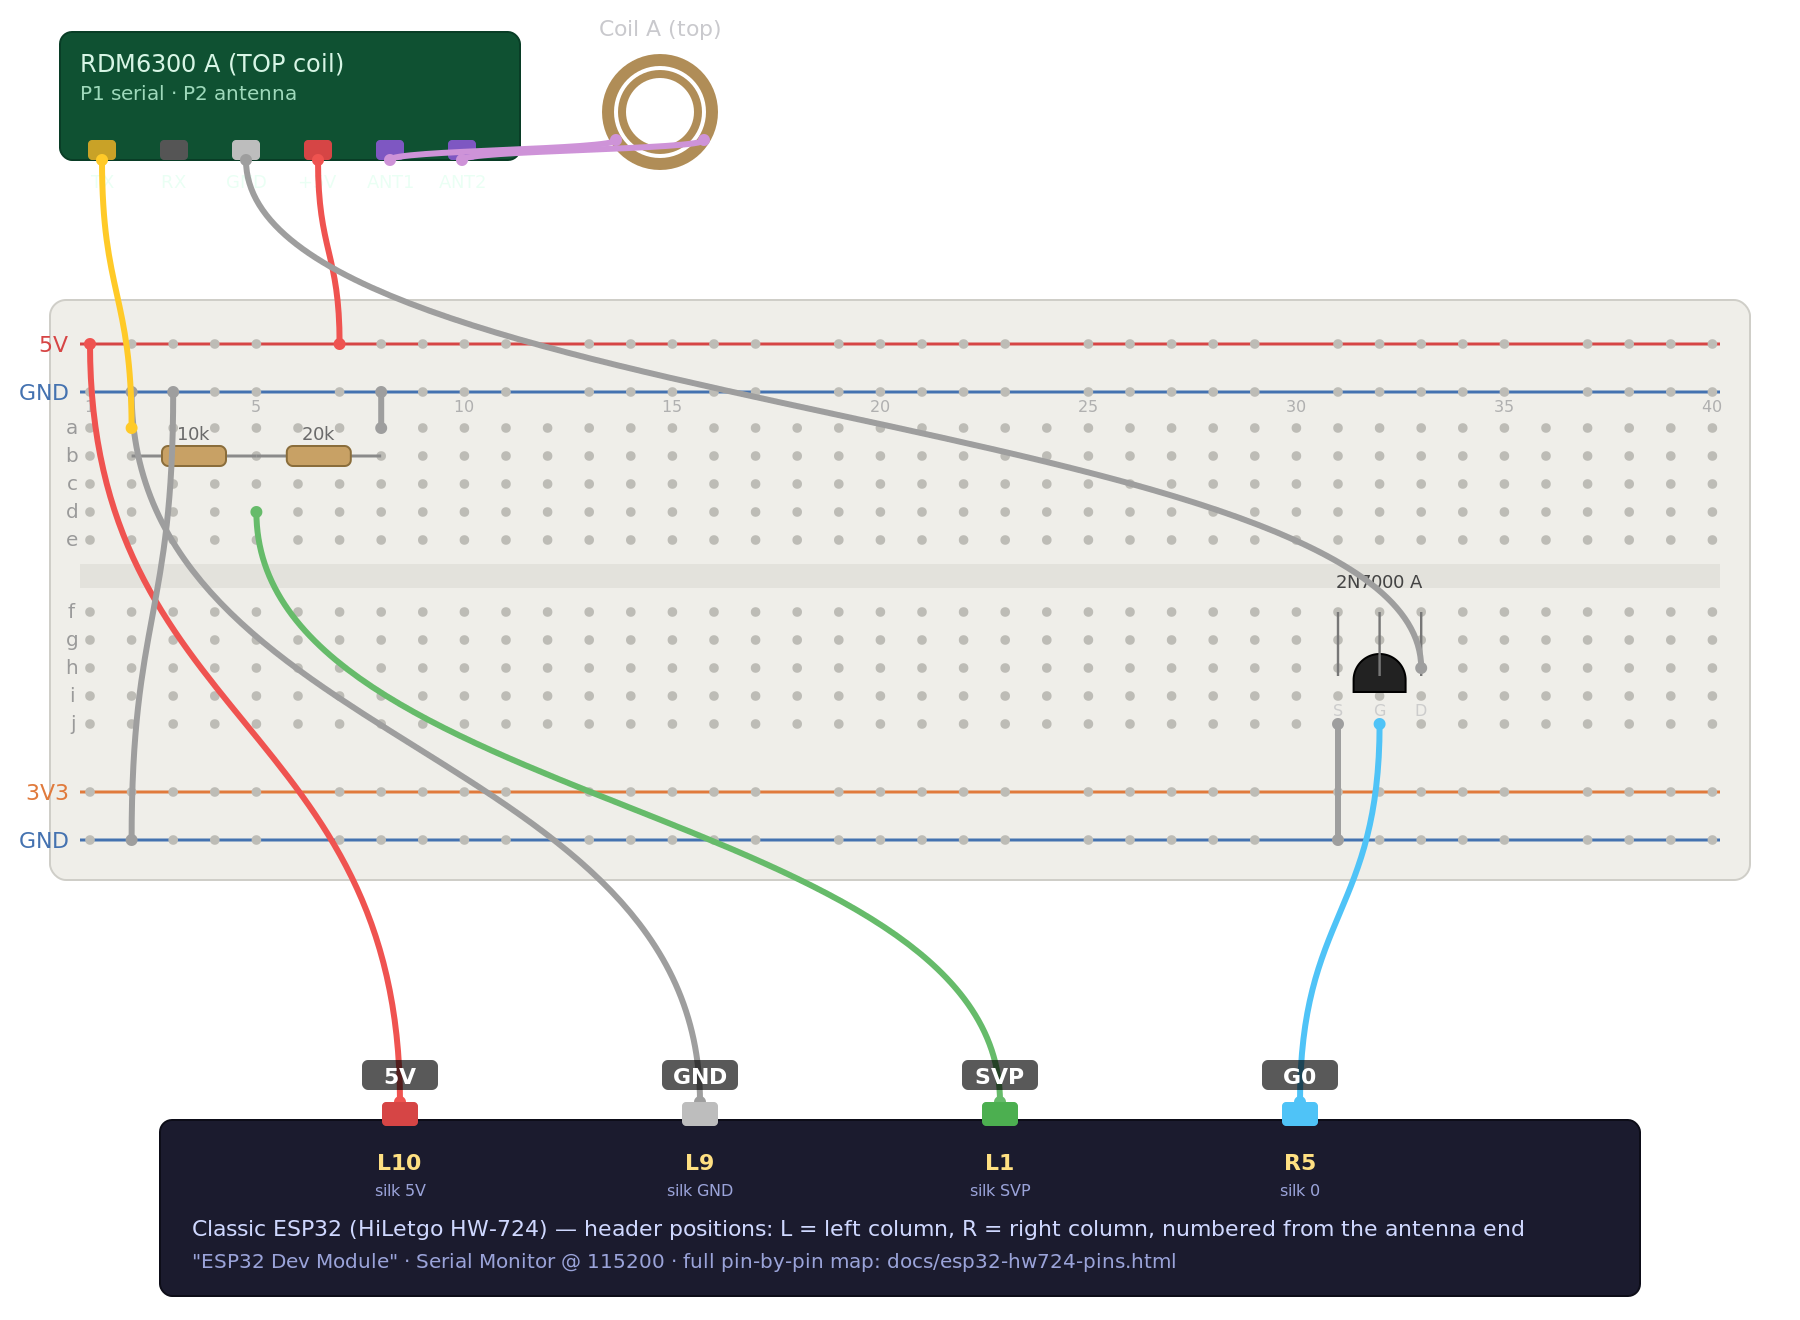
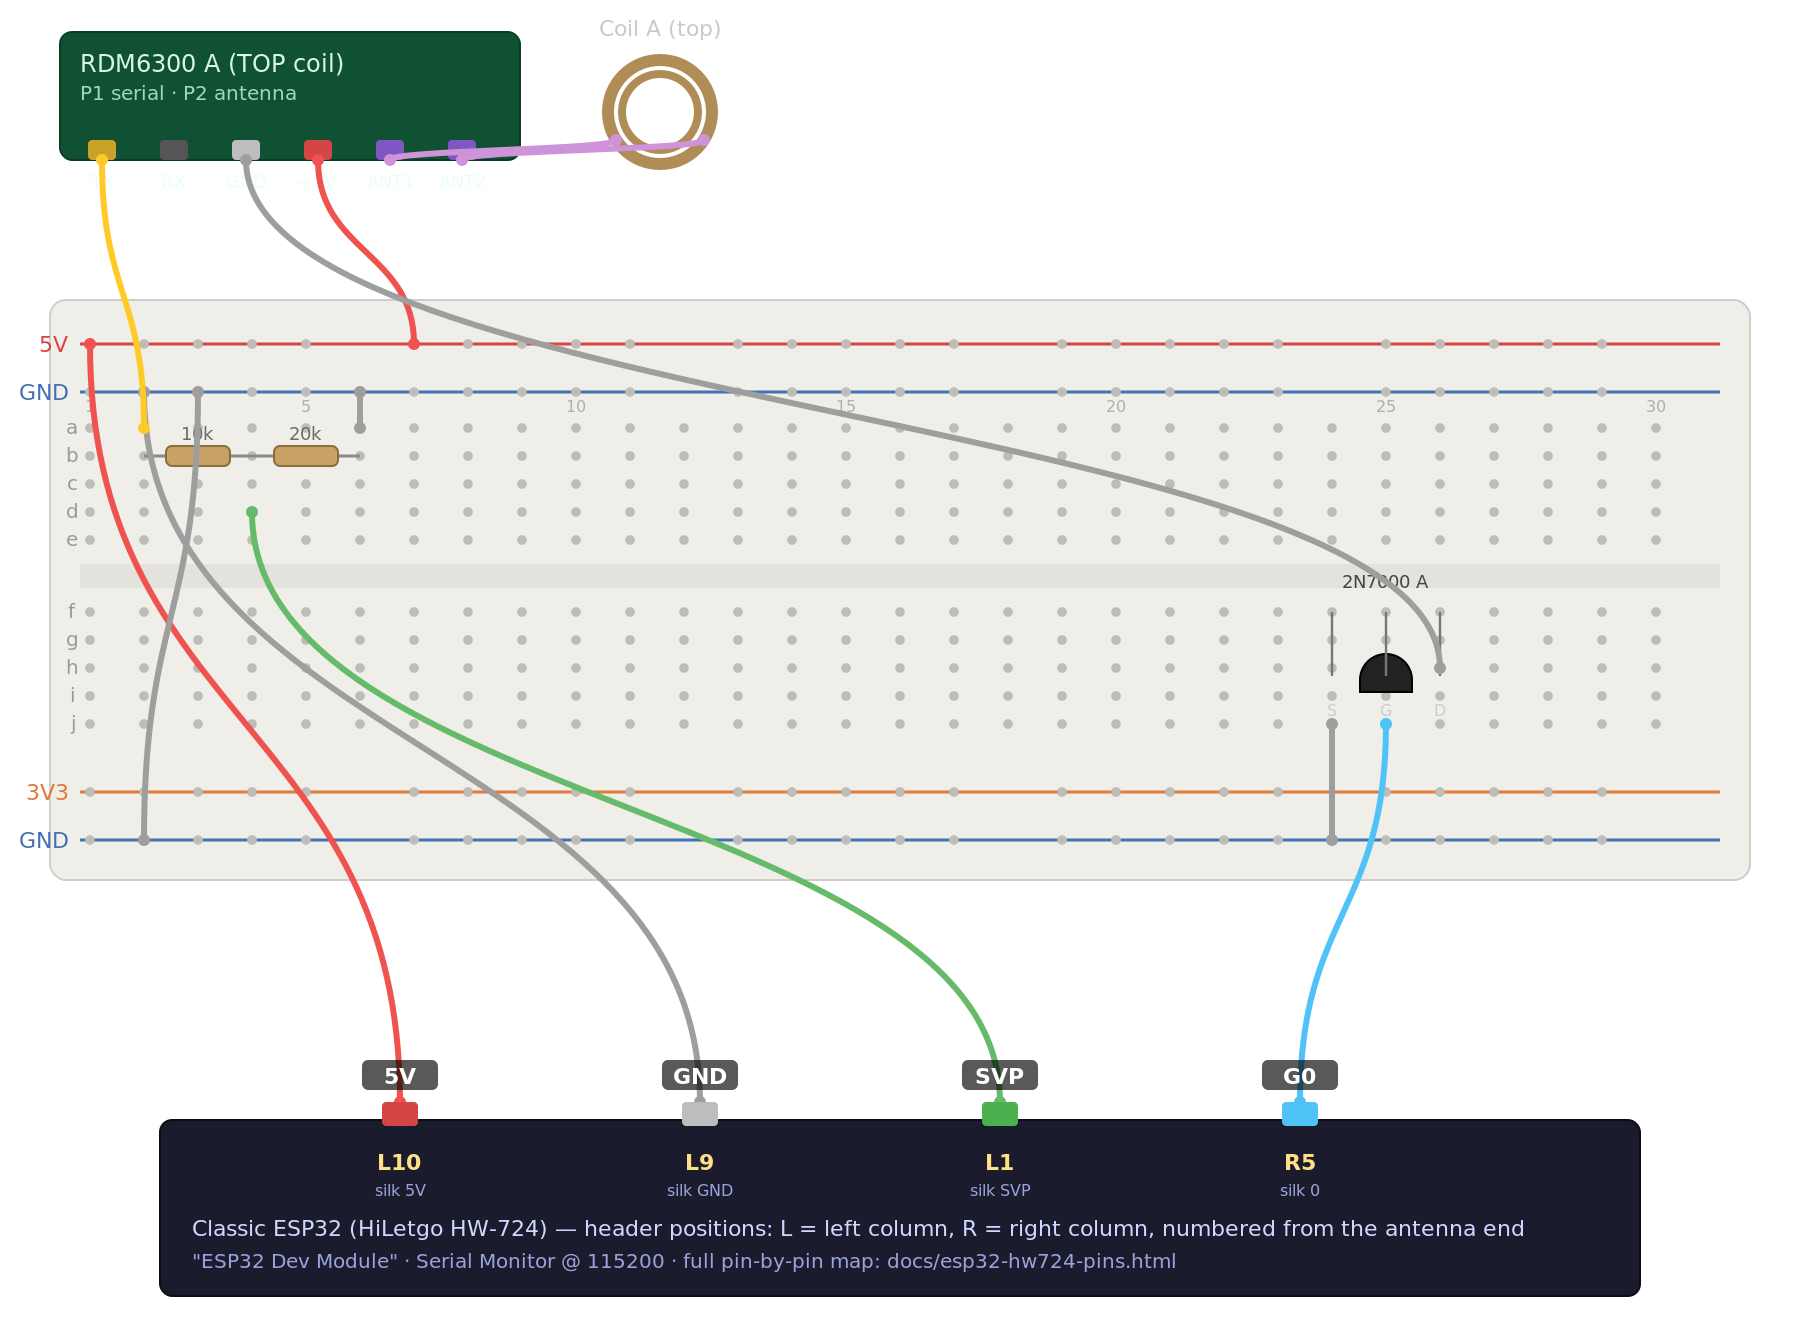
BOM with affiliate links; breadboard maps re-laid to the 400-point (30-column) board; LED + breadboard ASINs

diff --git a/docs/breadboard-step3.html b/docs/breadboard-step3.html
@@ -49,7 +49,7 @@ Wire colors: <span style="color:#ef5350">red = +5V</span>, <span style="color:#f
 var NS='http://www.w3.org/2000/svg';
 function el(t,a,parent){var e=document.createElementNS(NS,t);for(var k in a)e.setAttribute(k,a[k]);(parent||document.getElementById('bb')).appendChild(e);return e;}
 function txt(x,y,s,a,parent){var e=el('text',Object.assign({x:x,y:y},a),parent);e.textContent=s;return e;}
-var NCOL=40; function cx(c){return 45+(c-1)*20.8;}            // column 1..40
+var NCOL=30; function cx(c){return 45+(c-1)*27;}              // column 1..30 (400-point board)
 var rowY={a:214,b:228,c:242,d:256,e:270,f:306,g:320,h:334,i:348,j:362};
 var railY={'5V':172,'GNDT':196,'3V3':396,'GNDB':420};
 var holes=document.getElementById('holes');
@@ -116,11 +116,11 @@ function fet(c,label){var x=cx(c+1),y=rowY.f+26;
   ['S','G','D'].forEach(function(n,i){el('line',{x1:cx(c+i),y1:rowY.f,x2:cx(c+i),y2:y+6,stroke:'#777','stroke-width':1.2},parts);
     txt(cx(c+i),y+26,n,{fill:'#ccc','font-size':8,'text-anchor':'middle'},parts);});
   txt(x,rowY.f-12,label,{fill:'#444','font-size':9,'text-anchor':'middle','font-weight':500},parts);}
-resistorH(2,5,'b','10k'); resistorH(5,8,'b','20k');          // divider A
-resistorH(10,13,'b','10k'); resistorH(13,16,'b','20k');      // divider B
-led(19,'LED TOP'); resistorV(19,'220',true); resistorV(21,'47',true); resistorV(22,'47');
-led(25,'LED BOT'); resistorV(25,'220',true); resistorV(27,'47',true); resistorV(28,'47');
-fet(31,'2N7000 A'); fet(35,'2N7000 B');
+resistorH(2,4,'b','10k'); resistorH(4,6,'b','20k');          // divider A
+resistorH(8,10,'b','10k'); resistorH(10,12,'b','20k');      // divider B
+led(14,'LED TOP'); resistorV(14,'220',true); resistorV(16,'47',true); resistorV(17,'47');
+led(19,'LED BOT'); resistorV(19,'220',true); resistorV(21,'47',true); resistorV(22,'47');
+fet(24,'2N7000 A'); fet(27,'2N7000 B');
 
 // ---- wires: [color, fromPoint, toPoint, fromLabel, toLabel, note] ----
 var W=[
@@ -129,27 +129,27 @@ var W=[
  ['#ff8a65',R('3V3',1),pts['ESP:3V3'],'ESP32 3V3 (L8)','bottom + rail (3V3)','LED anodes ONLY'],
  ['#9e9e9e',R('GNDB',2),R('GNDT',3),'top - rail','bottom - rail','bridge the two GND rails'],
  ['#ef5350',pts['A:+5V'],R('5V',7),'RDM A +5V','top + rail',''],
- ['#ef5350',pts['B:+5V'],R('5V',37),'RDM B +5V','top + rail',''],
+ ['#ef5350',pts['B:+5V'],R('5V',29),'RDM B +5V','top + rail',''],
  ['#ffca28',pts['A:TX'],P(2,'a'),'RDM A TX','col 2 (10k)','divider A in'],
- ['#9e9e9e',P(8,'a'),R('GNDT',8),'col 8 (20k end)','top - rail','divider A to GND'],
- ['#66bb6a',P(5,'d'),pts['ESP:SVP'],'col 5 = tap A (3.33V)','ESP32 SVP (L1)','SVP = GPIO36, input-only, UART2 RX'],
- ['#ffca28',pts['B:TX'],P(10,'a'),'RDM B TX','col 10 (10k)','divider B in'],
- ['#9e9e9e',P(16,'a'),R('GNDT',16),'col 16 (20k end)','top - rail','divider B to GND'],
- ['#66bb6a',P(13,'d'),pts['ESP:SVN'],'col 13 = tap B (3.33V)','ESP32 SVN (R1)','SVN = GPIO39, input-only, UART1 RX'],
- ['#9e9e9e',pts['A:GND'],P(33,'h'),'RDM A GND','col 33 = 2N7000 A DRAIN','NOT the rail'],
- ['#9e9e9e',P(31,'j'),R('GNDB',31),'col 31 = 2N7000 A SOURCE','bottom - rail',''],
- ['#4fc3f7',P(32,'j'),pts['ESP:G0'],'col 32 = 2N7000 A GATE','ESP32 GPIO0 (R5)','reader A enable'],
- ['#9e9e9e',pts['B:GND'],P(37,'h'),'RDM B GND','col 37 = 2N7000 B DRAIN','NOT the rail'],
- ['#9e9e9e',P(35,'j'),R('GNDB',35),'col 35 = 2N7000 B SOURCE','bottom - rail',''],
- ['#4fc3f7',P(36,'j'),pts['ESP:G12'],'col 36 = 2N7000 B GATE','ESP32 GPIO12 (R8)','reader B enable'],
- ['#ff8a65',P(20,'d'),R('3V3',20),'col 20 = LED TOP anode','bottom + rail (3V3)',''],
- ['#f48fb1',P(19,'j'),pts['ESP:G25'],'col 19 = LED TOP R (via 220)','ESP32 GPIO25 (L2)','sink = on'],
- ['#f48fb1',P(21,'j'),pts['ESP:G26'],'col 21 = LED TOP G (via 47)','ESP32 GPIO26 (L3)',''],
- ['#f48fb1',P(22,'j'),pts['ESP:G2'],'col 22 = LED TOP B (via 47)','ESP32 GPIO2 (R6)',''],
- ['#ff8a65',P(26,'d'),R('3V3',26),'col 26 = LED BOT anode','bottom + rail (3V3)',''],
- ['#f48fb1',P(25,'j'),pts['ESP:G13'],'col 25 = LED BOT R (via 220)','ESP32 GPIO13 (R9)',''],
- ['#f48fb1',P(27,'j'),pts['ESP:G14'],'col 27 = LED BOT G (via 47)','ESP32 GPIO14 (R7)',''],
- ['#f48fb1',P(28,'j'),pts['ESP:G15'],'col 28 = LED BOT B (via 47)','ESP32 GPIO15 (R10)',''],
+ ['#9e9e9e',P(6,'a'),R('GNDT',6),'col 6 (20k end)','top - rail','divider A to GND'],
+ ['#66bb6a',P(4,'d'),pts['ESP:SVP'],'col 4 = tap A (3.33V)','ESP32 SVP (L1)','SVP = GPIO36, input-only, UART2 RX'],
+ ['#ffca28',pts['B:TX'],P(8,'a'),'RDM B TX','col 8 (10k)','divider B in'],
+ ['#9e9e9e',P(12,'a'),R('GNDT',12),'col 12 (20k end)','top - rail','divider B to GND'],
+ ['#66bb6a',P(10,'d'),pts['ESP:SVN'],'col 10 = tap B (3.33V)','ESP32 SVN (R1)','SVN = GPIO39, input-only, UART1 RX'],
+ ['#9e9e9e',pts['A:GND'],P(26,'h'),'RDM A GND','col 26 = 2N7000 A DRAIN','NOT the rail'],
+ ['#9e9e9e',P(24,'j'),R('GNDB',24),'col 24 = 2N7000 A SOURCE','bottom - rail',''],
+ ['#4fc3f7',P(25,'j'),pts['ESP:G0'],'col 25 = 2N7000 A GATE','ESP32 GPIO0 (R5)','reader A enable'],
+ ['#9e9e9e',pts['B:GND'],P(29,'h'),'RDM B GND','col 29 = 2N7000 B DRAIN','NOT the rail'],
+ ['#9e9e9e',P(27,'j'),R('GNDB',27),'col 27 = 2N7000 B SOURCE','bottom - rail',''],
+ ['#4fc3f7',P(28,'j'),pts['ESP:G12'],'col 28 = 2N7000 B GATE','ESP32 GPIO12 (R8)','reader B enable'],
+ ['#ff8a65',P(15,'d'),R('3V3',15),'col 15 = LED TOP anode','bottom + rail (3V3)',''],
+ ['#f48fb1',P(14,'j'),pts['ESP:G25'],'col 14 = LED TOP R (via 220)','ESP32 GPIO25 (L2)','sink = on'],
+ ['#f48fb1',P(16,'j'),pts['ESP:G26'],'col 16 = LED TOP G (via 47)','ESP32 GPIO26 (L3)',''],
+ ['#f48fb1',P(17,'j'),pts['ESP:G2'],'col 17 = LED TOP B (via 47)','ESP32 GPIO2 (R6)',''],
+ ['#ff8a65',P(20,'d'),R('3V3',20),'col 20 = LED BOT anode','bottom + rail (3V3)',''],
+ ['#f48fb1',P(19,'j'),pts['ESP:G13'],'col 19 = LED BOT R (via 220)','ESP32 GPIO13 (R9)',''],
+ ['#f48fb1',P(21,'j'),pts['ESP:G14'],'col 21 = LED BOT G (via 47)','ESP32 GPIO14 (R7)',''],
+ ['#f48fb1',P(22,'j'),pts['ESP:G15'],'col 22 = LED BOT B (via 47)','ESP32 GPIO15 (R10)',''],
  ['#ce93d8',pts['A:ANT1'],pts['CA:L1'],'RDM A ANT1/ANT2','coil A (2 leads)','no polarity'],
  ['#ce93d8',pts['A:ANT2'],pts['CA:L2'],'','','' ],
  ['#ce93d8',pts['B:ANT1'],pts['CB:L1'],'RDM B ANT1/ANT2','coil B (2 leads)','no polarity'],

diff --git a/docs/breadboard-step1.html b/docs/breadboard-step1.html
@@ -45,7 +45,7 @@
 var NS='http://www.w3.org/2000/svg';
 function el(t,a,parent){var e=document.createElementNS(NS,t);for(var k in a)e.setAttribute(k,a[k]);(parent||document.getElementById('bb')).appendChild(e);return e;}
 function txt(x,y,s,a,parent){var e=el('text',Object.assign({x:x,y:y},a),parent);e.textContent=s;return e;}
-var NCOL=40; function cx(c){return 45+(c-1)*20.8;}            // column 1..40
+var NCOL=30; function cx(c){return 45+(c-1)*27;}              // column 1..30 (400-point board)
 var rowY={a:214,b:228,c:242,d:256,e:270,f:306,g:320,h:334,i:348,j:362};
 var railY={'5V':172,'GNDT':196,'3V3':396,'GNDB':420};
 var holes=document.getElementById('holes');
@@ -111,8 +111,8 @@ function fet(c,label){var x=cx(c+1),y=rowY.f+26;
   ['S','G','D'].forEach(function(n,i){el('line',{x1:cx(c+i),y1:rowY.f,x2:cx(c+i),y2:y+6,stroke:'#777','stroke-width':1.2},parts);
     txt(cx(c+i),y+26,n,{fill:'#ccc','font-size':8,'text-anchor':'middle'},parts);});
   txt(x,rowY.f-12,label,{fill:'#444','font-size':9,'text-anchor':'middle','font-weight':500},parts);}
-resistorH(2,5,'b','10k'); resistorH(5,8,'b','20k');          // divider A
-fet(31,'2N7000 A');
+resistorH(2,4,'b','10k'); resistorH(4,6,'b','20k');          // divider A
+fet(24,'2N7000 A');
 
 // ---- wires: [color, fromPoint, toPoint, fromLabel, toLabel, note] ----
 var W=[
@@ -121,11 +121,11 @@ var W=[
  ['#9e9e9e',R('GNDB',2),R('GNDT',3),'top - rail','bottom - rail','bridge the two GND rails'],
  ['#ef5350',pts['A:+5V'],R('5V',7),'RDM A +5V','top + rail',''],
  ['#ffca28',pts['A:TX'],P(2,'a'),'RDM A TX','col 2 (10k)','divider A in'],
- ['#9e9e9e',P(8,'a'),R('GNDT',8),'col 8 (20k end)','top - rail','divider A to GND'],
- ['#66bb6a',P(5,'d'),pts['ESP:SVP'],'col 5 = tap A (3.33V)','ESP32 SVP (L1)','SVP = GPIO36, input-only, UART2 RX'],
- ['#9e9e9e',pts['A:GND'],P(33,'h'),'RDM A GND','col 33 = 2N7000 A DRAIN','NOT the rail'],
- ['#9e9e9e',P(31,'j'),R('GNDB',31),'col 31 = 2N7000 A SOURCE','bottom - rail',''],
- ['#4fc3f7',P(32,'j'),pts['ESP:G0'],'col 32 = 2N7000 A GATE','ESP32 GPIO0 (R5)','reader A enable'],
+ ['#9e9e9e',P(6,'a'),R('GNDT',6),'col 6 (20k end)','top - rail','divider A to GND'],
+ ['#66bb6a',P(4,'d'),pts['ESP:SVP'],'col 4 = tap A (3.33V)','ESP32 SVP (L1)','SVP = GPIO36, input-only, UART2 RX'],
+ ['#9e9e9e',pts['A:GND'],P(26,'h'),'RDM A GND','col 26 = 2N7000 A DRAIN','NOT the rail'],
+ ['#9e9e9e',P(24,'j'),R('GNDB',24),'col 24 = 2N7000 A SOURCE','bottom - rail',''],
+ ['#4fc3f7',P(25,'j'),pts['ESP:G0'],'col 25 = 2N7000 A GATE','ESP32 GPIO0 (R5)','reader A enable'],
  ['#ce93d8',pts['A:ANT1'],pts['CA:L1'],'RDM A ANT1/ANT2','coil A (2 leads)','no polarity'],
  ['#ce93d8',pts['A:ANT2'],pts['CA:L2'],'','','' ],
 ];

diff --git a/README.md b/README.md
@@ -9,7 +9,7 @@ display tells you whether a crystal is **Series 1 or Series 2**.
 
 Built from cheap, common parts: two **RDM6300** 125 kHz RFID modules with their stock coils,
 one **ESP32** board with a built-in OLED, two MOSFETs, two RGB LEDs, a handful of resistors.
-No custom antenna, no PCB, no soldering beyond tinning two coil leads. About $30 in parts.
+No custom antenna, no PCB, no soldering beyond tinning two coil leads. Roughly $65 in parts if you buy everything in packs (see the BOM); much less if you already have resistors, jumpers and a breadboard.
 
 ## What's here
 
@@ -18,6 +18,7 @@ No custom antenna, no PCB, no soldering beyond tinning two coil leads. About $30
 | [`BUILD.md`](BUILD.md) | Parts list, the one pin map, wiring → flash → test, in order |
 | [`EXPLAINER.md`](EXPLAINER.md) | How the crystals work, what the reader sees, what we measured, what didn't work |
 | [`docs/crystal-id-map.md`](docs/crystal-id-map.md) | The tag → character/color table, and the series marker |
+| [`docs/GE-Kyber-Dual-Reader-BOM.xlsx`](docs/GE-Kyber-Dual-Reader-BOM.xlsx) | Bill of materials with Amazon links, quantities, pack sizes |
 | [`docs/breadboard-step1.html`](docs/breadboard-step1.html) / [`.png`](docs/breadboard-step1.png) | Breadboard map, one reader (every wire stays put for step 3) |
 | [`docs/breadboard-step3.html`](docs/breadboard-step3.html) / [`.png`](docs/breadboard-step3.png) | Breadboard map, the full two-reader build |
 | [`docs/esp32-hw724-pins.html`](docs/esp32-hw724-pins.html) / [`.png`](docs/esp32-hw724-pins.png) | The ESP32 board pin by pin — which header position gets what |
@@ -48,3 +49,5 @@ MIT — see [`LICENSE`](LICENSE). Build it, change it, sell it, just keep the no
 *This is an unofficial fan project. It is not affiliated with, endorsed by, or connected to
 Disney, Lucasfilm, or Galaxy's Edge. Character names appear only to identify which crystal
 a tag is programmed as.*
+
+*Amazon links in the BOM are affiliate links; they cost you nothing and help fund the next build.*

diff --git a/BUILD.md b/BUILD.md
@@ -13,11 +13,13 @@ If you want the whole thing in one sitting, wire everything from the step-3 map 
 | 2 | **2N7000** N-channel MOSFET (TO-92) | Switches each reader's ground so the two readers take turns. |
 | 2 | 10 kΩ resistor | Voltage dividers (one per reader) |
 | 2 | 20 kΩ resistor | (two 10 kΩ in series works) |
-| 2 | 5 mm **common-anode** RGB LED, 4 legs | Longest leg is the common anode. Common-cathode also works with one `#define` change. |
+| 2 | 5 mm **common-anode** RGB LED, 4 legs — EDGELEC "[24] RGB Tri-color (Common Anode)", ASIN B077XD5T8P | Longest leg is the common anode. The same listing's common-*cathode* variant (B077XGF3YR) also works: set `COMMON_ANODE 0` and put the common leg on GND instead of 3V3. |
 | 2 | 220 Ω resistor | LED red legs |
 | 4 | **47 Ω** resistor | LED green and blue legs. Not 100 Ω — see EXPLAINER, "LED brightness". |
-| 1 | Solderless breadboard, 40+ columns, with power rails | Plus jumper wires |
+| 1 | Solderless breadboard, **400-point (30 columns)** with power rails — e.g. ELEGOO B0CYPVMK9J | The maps are drawn on exactly this board. A bigger board is fine. |
 | 1 | USB cable + a real USB port or wall brick | ~300 mA total; an unpowered hub may brown out |
+
+Every part with an Amazon link, quantities and pack sizes: [`docs/GE-Kyber-Dual-Reader-BOM.xlsx`](docs/GE-Kyber-Dual-Reader-BOM.xlsx).
 
 You'll also want a multimeter (continuity mode) for one step, and a Series 1 and a Series 2
 crystal to test with. A double-ended crystal is the point of the build but not required.
